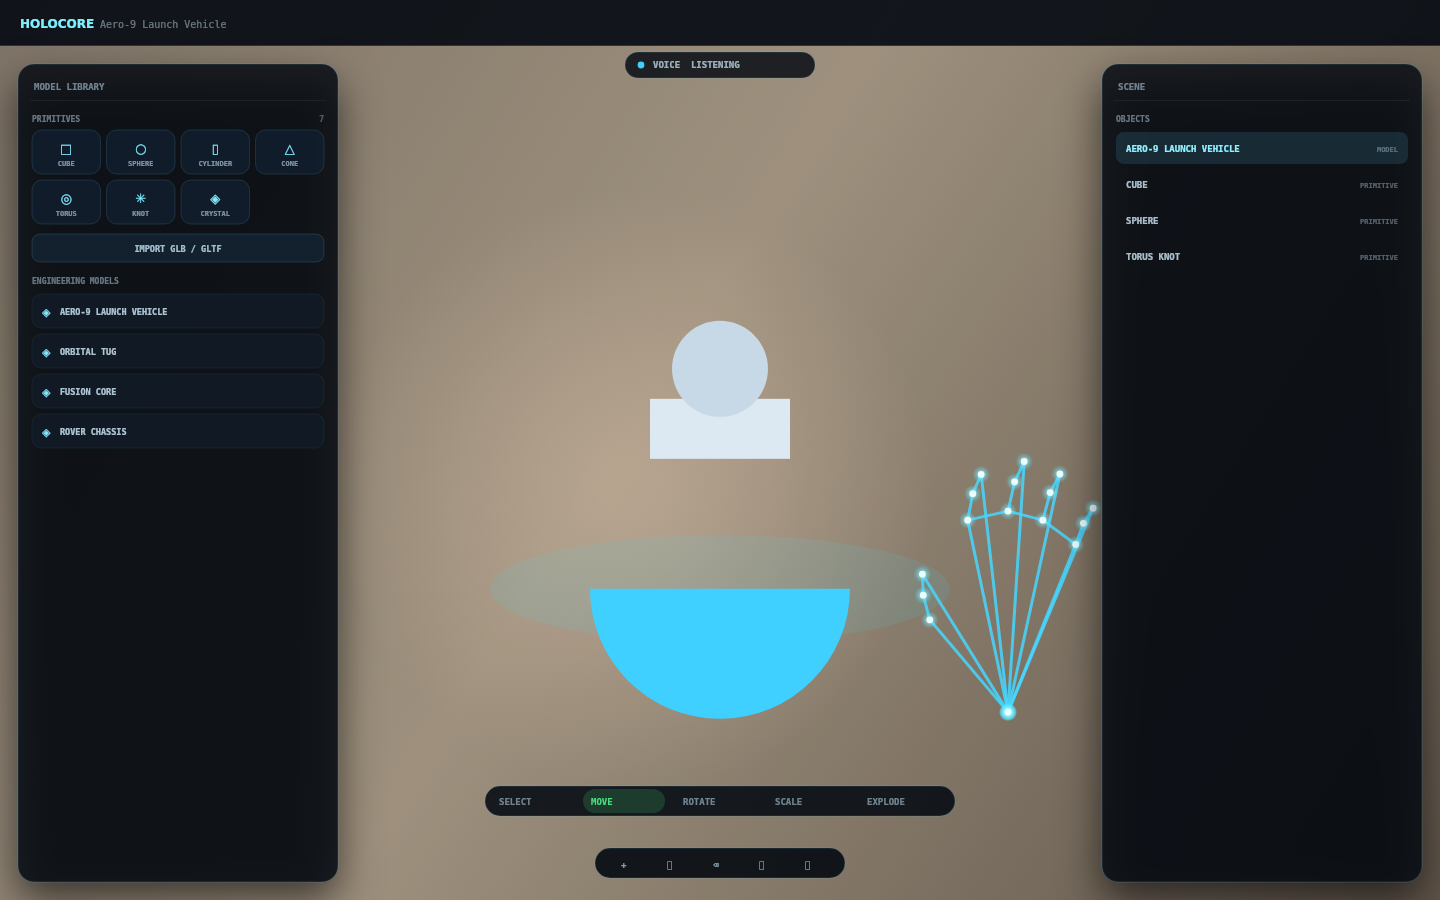
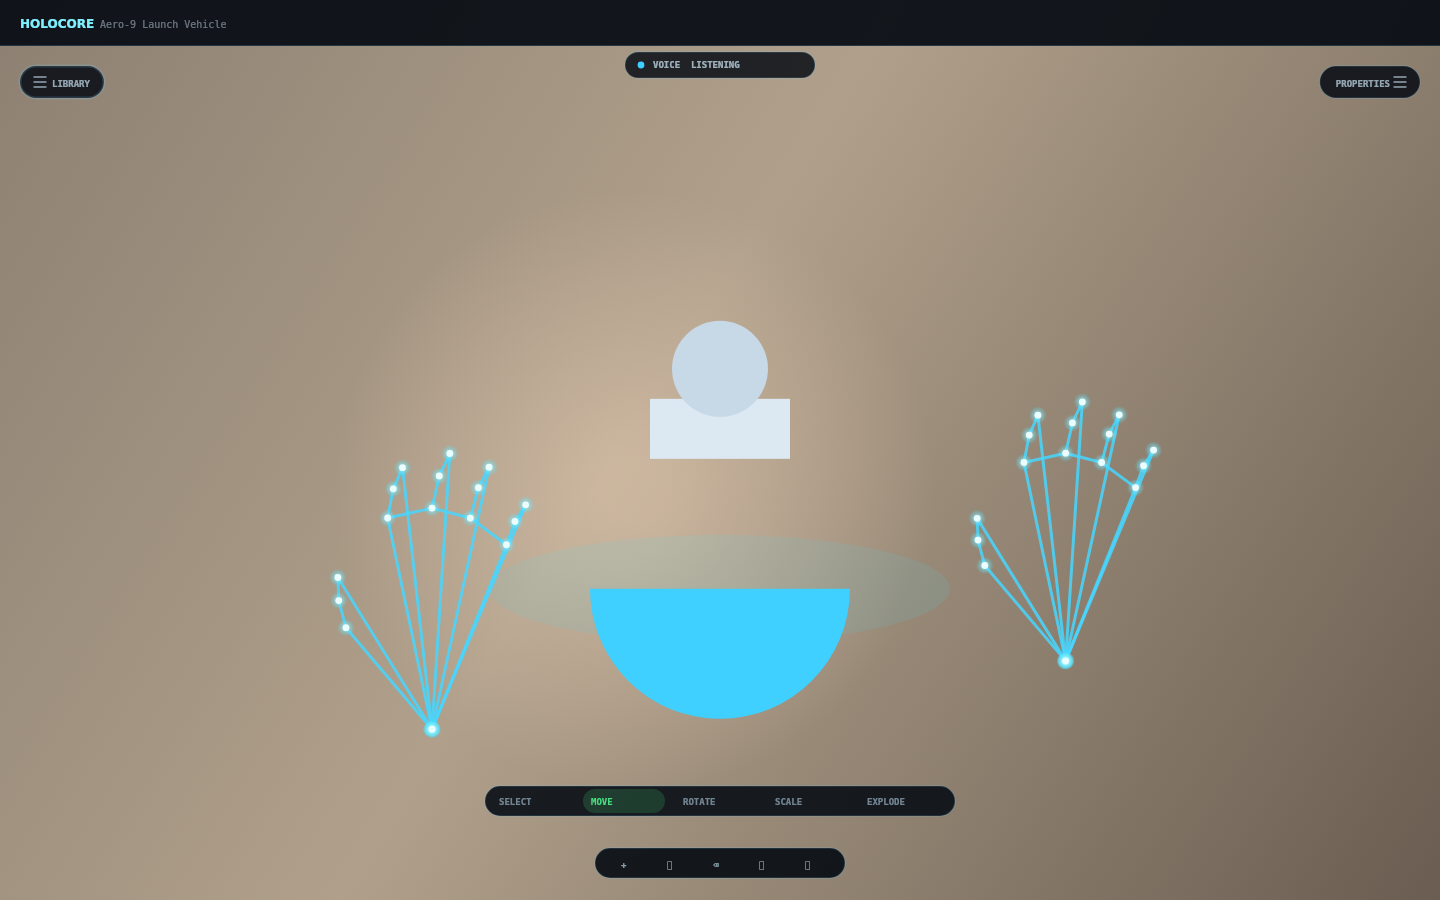
Align the 3D hand rigs with the real hands
Two mapping defects made the scene skeletons sit away from the hands the
video showed:

- the <video> is object-fit: cover, so a stage whose aspect ratio differs
  from the camera's is centre-cropped. The 2D overlay compensated for the
  crop; the 3D rigs did not. landmarkToWorld now takes the same cover
  rectangle and both paths agree to 0.00px at every aspect ratio.
- the rig was sized from a constant while the 2D layer drew the hand at
  whatever size the video showed, so the two disagreed as the hand moved
  towards or away from the lens. The metric scale is now derived from the
  projected hand spread, with a guard for degenerate landmark sets.

Also stops the two layers drawing the same skeleton twice: when the
scene rigs are live the 2D overlay only supplies the reticle, pinch burst
and labels.

diff --git a/handSkeleton3d.js b/handSkeleton3d.js
@@ -70,14 +70,37 @@ function paletteFor(side) {
  * @param {number}  [options.offsetY=0]
  */
 export function landmarkToWorld(point, camera, {
-  mirror = true, depth = HAND_DEPTH, offsetX = 0, offsetY = 0
+  mirror = true, depth = HAND_DEPTH, offsetX = 0, offsetY = 0, fit = null
 } = {}) {
+  // The <video> is displayed with object-fit: cover, so on a stage whose aspect
+  // ratio differs from the camera the image is centre-cropped. The 2D overlay
+  // has always compensated for that; the 3D rigs did not, so on a non-16:9
+  // stage the scene skeletons drifted away from the real hands. `fit` carries
+  // the cover rectangle (from handGeometry.coverFit) and is applied here in
+  // normalised space, exactly like the 2D path.
+  let u = point.x;
+  let v = point.y;
+  if (fit) {
+    const boxWidth = Math.max(1, fit.boxWidth);
+    const boxHeight = Math.max(1, fit.boxHeight);
+    // Source pixels for this landmark, relative to the visible crop.
+    const sourceX = point.x * fit.videoWidth - fit.offsetX;
+    const sourceY = point.y * fit.videoHeight - fit.offsetY;
+    u = (sourceX * fit.scale) / boxWidth;
+    v = (sourceY * fit.scale) / boxHeight;
+    if (!Number.isFinite(u) || !Number.isFinite(v)) {
+      u = point.x;
+      v = point.y;
+    }
+  }
+
   // Mirroring has to happen exactly once, in normalised space, to match the
-  // CSS-mirrored video the user is looking at.
-  const nx = mirror ? 1 - point.x : point.x;
+  // CSS-mirrored video the user is looking at. This happens *after* cropping,
+  // because the video is flipped as a whole.
+  const nx = mirror ? 1 - u : u;
   // NDC: x right, y up. MediaPipe y runs downward.
   const ndcX = nx * 2 - 1;
-  const ndcY = -(point.y * 2 - 1);
+  const ndcY = -(v * 2 - 1);
 
   // Half-extents of the visible frustum at the hand plane.
   const halfHeight = Math.tan(THREE.MathUtils.degToRad(camera.fov) / 2) * depth;
@@ -283,7 +306,9 @@ export class HandSkeleton3D {
    * @param {string[]} handedness
    * @param {object} options { pinched: boolean[], activity: number[] }
    */
-  update(landmarks, worldLandmarks, handedness, { pinched = [], activity = [] } = {}) {
+  update(landmarks, worldLandmarks, handedness, {
+    pinched = [], activity = [], fit = null
+  } = {}) {
     if (!this.visible) return;
     this.camera.updateMatrixWorld();
 
@@ -307,18 +332,42 @@ export class HandSkeleton3D {
 
       // Anchor the hand at its wrist, so the whole skeleton is positioned by
       // the wrist landmark and shaped by the rest.
-      const wristAnchor = landmarkToWorld(points[0], this.camera, { mirror: this.mirror });
+      const wristAnchor = landmarkToWorld(points[0], this.camera, {
+        mirror: this.mirror,
+        fit
+      });
 
-      // Scale metric offsets from worldLandmarks into our world units. A hand
-      // is roughly 0.19 m across; on the hand plane we want it to read at
-      // about 1.6 world units wide.
-      const METRIC_TO_WORLD = 8.6;
+      // Place every joint on the hand plane first. This is always correct, and
+      // it is all we need when MediaPipe gives no metric landmarks.
+      const planePositions = points.map(point =>
+        landmarkToWorld(point, this.camera, { mirror: this.mirror, fit })
+      );
+
+      // Derive the hand's size from those plane positions rather than assuming
+      // a fixed size. The 2D overlay has always drawn the hand at whatever size
+      // the video shows; sizing the 3D rig from a constant made the two layers
+      // disagree whenever the hand moved nearer or further from the camera.
+      let spread = 0;
+      for (let i = 1; i < planePositions.length; i++) {
+        spread = Math.max(spread, planePositions[i].distanceTo(planePositions[0]));
+      }
+      const metricSpread = world && world.length >= 21
+        ? Math.max(
+            ...world.slice(1).map(w => Math.hypot(
+              w.x - world[0].x, w.y - world[0].y, w.z - world[0].z
+            ))
+          )
+        : 0;
+      // worldLandmarks are in metres, so this converts a metric offset into the
+      // same world units the plane mapping produced.
+      // Both spreads must be usable: identical landmarks give a zero spread and
+      // would collapse every joint onto one point (and hide every bone).
+      const METRIC_TO_WORLD =
+        metricSpread > 1e-4 && spread > 1e-4 ? spread / metricSpread : 8.6;
 
       const positions = points.map((point, i) => {
         if (!world || !world[i]) {
-          // No metric data: fall back to the flat plane mapping, which is
-          // still correctly positioned, just flat.
-          return landmarkToWorld(point, this.camera, { mirror: this.mirror });
+          return planePositions[i].clone();
         }
         const w0 = world[0] || { x: 0, y: 0, z: 0 };
         const dx = (world[i].x - w0.x) * METRIC_TO_WORLD;

diff --git a/tools/validate-full.js b/tools/validate-full.js
@@ -579,7 +579,86 @@ check("select never transforms the scene",
   !sel.position && sel.scale === undefined && sel.rotationZ === undefined,
   sel.intent);
 
-section("5f · Pinch recognition curve");
+section("5f · 3D and 2D skeletons agree on screen");
+
+// The 2D overlay compensates for object-fit: cover cropping; the 3D rigs used
+// to ignore it, so on any stage whose aspect ratio differs from the camera the
+// scene skeletons drifted off the real hands. This compares the two mapping
+// paths in projected stage pixels.
+const { landmarkToWorld } = await import("../handSkeleton3d.js");
+const { landmarkToStage, coverFit } = await import("../handGeometry.js");
+
+const alignCases = [
+  { name: "4:3 camera on a 16:9 stage", vw: 640, vh: 480, bw: 1280, bh: 720 },
+  { name: "16:9 camera on a portrait stage", vw: 1280, vh: 720, bw: 420, bh: 860 },
+  { name: "matching aspect ratios", vw: 1280, vh: 720, bw: 1280, bh: 720 }
+];
+
+for (const spec of alignCases) {
+  const cam = new THREE.PerspectiveCamera(55, spec.bw / spec.bh, 0.1, 100);
+  cam.position.set(0, 0, 6);
+  cam.lookAt(0, 0, 0);
+  cam.updateMatrixWorld(true);
+  cam.updateProjectionMatrix();
+
+  const fit = {
+    ...coverFit(spec.vw, spec.vh, spec.bw, spec.bh),
+    videoWidth: spec.vw, videoHeight: spec.vh,
+    boxWidth: spec.bw, boxHeight: spec.bh
+  };
+
+  let worst = 0;
+  for (const [x, y] of [[0.5, 0.5], [0.25, 0.35], [0.75, 0.65], [0.4, 0.6]]) {
+    const stage = landmarkToStage({ x, y },
+      { videoWidth: spec.vw, videoHeight: spec.vh, boxWidth: spec.bw, boxHeight: spec.bh },
+      { mirror: true });
+    const projected = landmarkToWorld({ x, y }, cam, { mirror: true, fit }).project(cam);
+    const px = {
+      x: (projected.x * 0.5 + 0.5) * spec.bw,
+      y: (-projected.y * 0.5 + 0.5) * spec.bh
+    };
+    worst = Math.max(worst, Math.hypot(px.x - stage.x, px.y - stage.y));
+  }
+  check(`2D and 3D agree · ${spec.name}`, worst < 1, `${worst.toFixed(2)}px`);
+}
+
+{
+  // The rig must be drawn at the size the video shows, not a fixed guess: a
+  // hand near the lens is bigger on screen and the 3D skeleton has to match.
+  const cam = new THREE.PerspectiveCamera(55, 16 / 9, 0.1, 100);
+  cam.position.set(0, 0, 6); cam.lookAt(0, 0, 0);
+  cam.updateMatrixWorld(true); cam.updateProjectionMatrix();
+  const scene = new THREE.Scene();
+
+  const makeHand = (size, cx = 0.5, cy = 0.5) => {
+    const pts = [];
+    for (let i = 0; i < 21; i++) {
+      const a = (i / 21) * Math.PI * 2;
+      pts.push({ x: cx + Math.cos(a) * size, y: cy + Math.sin(a) * size, z: 0 });
+    }
+    return pts;
+  };
+
+  const measure = size => {
+    const sk = new (api.getHandSkeleton().constructor)({ scene, camera: cam, mirror: true });
+    const landmarks = makeHand(size);
+    const metric = makeHand(size).map(p => ({ x: p.x * 0.2, y: p.y * 0.2, z: 0 }));
+    sk.update([landmarks], [metric], ["Right"], {});
+    const rig = [...sk.rigs.values()][0];
+    let span = 0;
+    const pts = rig.joints.map(j => j.position);
+    for (let i = 1; i < pts.length; i++) span = Math.max(span, pts[i].distanceTo(pts[0]));
+    sk.root.parent?.remove(sk.root);
+    return span;
+  };
+
+  const small = measure(0.04);
+  const large = measure(0.12);
+  check("a hand twice the size in frame is drawn twice as large",
+    Math.abs(large / small - 3) < 0.35, `${(large / small).toFixed(2)}x`);
+}
+
+section("5g · Pinch recognition curve");
 
 // A hand whose palm scale is normalised to 1, with the thumb tip placed at a
 // known distance from the index tip. Distances follow the measured values the

diff --git a/main.js b/main.js
@@ -24,7 +24,7 @@ import { HandSkeleton3D } from "./handSkeleton3d.js";
 import { Playground, PRIMITIVES } from "./playground.js";
 import { VoiceControl, VOICE_STATUS } from "./voiceControl.js";
 import { MODES, getMode, isMode, instructionFor } from "./interactionModes.js";
-import { landmarkToNdc, landmarkToStage } from "./handGeometry.js";
+import { landmarkToNdc, landmarkToStage, coverFit } from "./handGeometry.js";
 import { ComponentInspector } from "./componentInspector.js";
 import { createAssistant } from "./assistant.js";
 import { SettingsStore } from "./store.js";
@@ -1407,11 +1407,26 @@ function processHands(now) {
   // The 3D hands are the primary representation; the 2D overlay is kept for the
   // corner preview card and as a fallback when WebGL is unavailable.
   if (skeleton3d) {
+    // The video is object-fit: cover, so hand the rigs the same crop rectangle
+    // the 2D overlay uses; otherwise the scene skeletons drift off the real
+    // hands whenever the stage aspect ratio differs from the camera's.
+    const video = videoSize();
+    const box = cameraDisplayBox();
+    const fit = video.videoWidth && box.width
+      ? {
+          ...coverFit(video.videoWidth, video.videoHeight, box.width, box.height),
+          videoWidth: video.videoWidth,
+          videoHeight: video.videoHeight,
+          boxWidth: box.width,
+          boxHeight: box.height
+        }
+      : null;
+
     skeleton3d.update(
       hands,
       tracker.worldLandmarks || [],
       handedness,
-      { pinched: overlayPinched, activity }
+      { pinched: overlayPinched, activity, fit }
     );
   }
 
@@ -1749,11 +1764,18 @@ function handleHandSelect() {
 /** Draw the landmark skeleton onto the full-workspace overlay. */
 function drawWorkspaceOverlay(hands, handedness, states, activity, targets, tethers) {
   if (!overlayWorkspace || state.cameraView !== "workspace") return;
+
+  // The scene-space rigs are the primary skeleton. When they are live, the 2D
+  // layer only adds the reticle, the pinch burst and the labels — otherwise
+  // both layers draw the same bones and hands look doubled and smeared.
+  const sceneSkeletons = Boolean(skeleton3d?.rigs?.size);
+
   overlayWorkspace.draw(hands, handedness, {
     pinched: states.map(hand => hand.pinched),
     activity,
     targets,
-    tethers
+    tethers,
+    sceneSkeletons
   });
 }
 

diff --git a/handOverlay.js b/handOverlay.js
@@ -199,7 +199,15 @@ export class HandOverlay {
    */
   draw(hands, handedness, {
     pinched = [], activity = [], targets = [], tethers = [],
-    depths = [], joints3d = [], viewport = null
+    depths = [], joints3d = [], viewport = null,
+    /**
+     * True when the scene-space 3D rigs are drawing the hands. The 2D layer
+     * then supplies only what real geometry cannot: the pointer reticle, the
+     * pinch burst and the hand labels. Without this, every hand was drawn
+     * twice — once in the scene and once on top of it — which doubled both the
+     * glow and the CPU cost of the overlay.
+     */
+    sceneSkeletons = false
   } = {}) {
     if (!this.available) return;
     this.clear();
@@ -225,8 +233,10 @@ export class HandOverlay {
       // Spray of limb bone volumes in projected 3D, then the 2D connective
       // tissue and glowing joints. Drawing bones first keeps joints crisp.
       if (bones && viewport) this._drawBoneVolumes(bones, colours, heat, depth, viewport);
-      this._drawSkeleton(landmarks, colours, heat, index, depth);
-      this._drawJoints(landmarks, colours, heat, isPinched, index, depth);
+      if (!sceneSkeletons) {
+        this._drawSkeleton(landmarks, colours, heat, index, depth);
+        this._drawJoints(landmarks, colours, heat, isPinched, index, depth);
+      }
       this._drawPinch(landmarks, colours, isPinched, heat, index);
       this._drawPointer(landmarks, colours, isPinched, heat, targets[index], tethers[index], index);
       this._drawLabel(landmarks, colours, side, heat, index);
